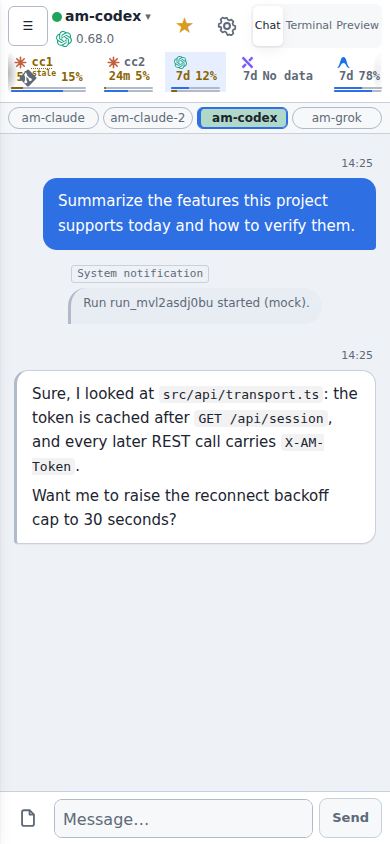
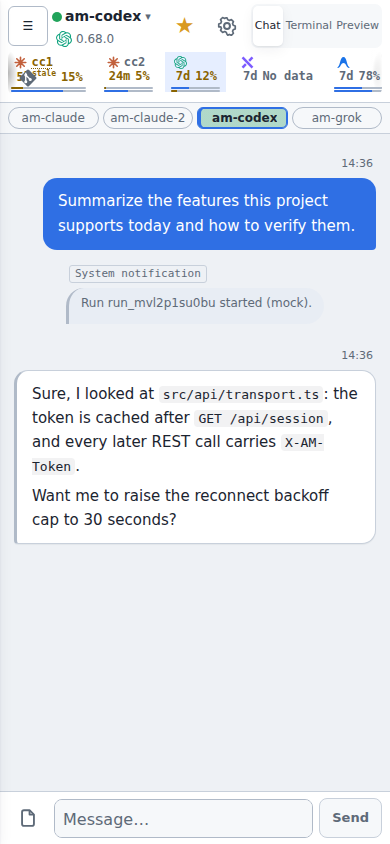
fix(web): 英文畫面不留全形標點，補漏翻的批次重啟原因與 kind 說明（#1932）
英文字典加全形標點守門測試；程式裡自己組字串的分隔符與 Antigravity（agy）／integration： 標籤改走 t()，英文用半形；updateBatch 的略過原因、KindTag 說明原本寫死中文，補上英文。重拍英文 settings-updates 截圖。

Changed region(s): [[0.1538, 0.3081, 0.8, 0.4005], [0.9231, 0.4005, 0.9538, 0.4313], [0.9231, 0.1848, 0.9538, 0.2156]]

diff --git a/web/src/lib/updateBatch.ts b/web/src/lib/updateBatch.ts
@@ -2,6 +2,7 @@ import type { AgentStatus, Bot, Run } from '../api/types'
 import { cmpVersion } from './releaseTriage'
 import { updateRange } from './updateRange'
 import { backgroundLabel } from './backgroundJobs'
+import { t } from './i18n'
 import type { UpstreamItem } from '../store/upstreamUpdate'
 
 /**
@@ -46,8 +47,8 @@ export function isChildBot(bot: Pick<Bot, 'managed_by' | 'parent_bot_id'>): bool
  * 前端的計數要跟 daemon 同一條線，不然框裡寫「重啟 N 顆」，實際動的比它少。
  */
 function neverRestartedReason(bot: Bot, run: Run): string | null {
-  if (isChildBot(bot)) return '子 agent，由父 Bot 重開' // i18n-ignore
-  if (bot.herdr_session === 'default' || run.herdr_session === 'default') return '在你自己的 herdr default session 裡，daemon 不動它' // i18n-ignore
+  if (isChildBot(bot)) return t('子 agent，由父 Bot 重開')
+  if (bot.herdr_session === 'default' || run.herdr_session === 'default') return t('在你自己的 herdr default session 裡，daemon 不動它')
   return null
 }
 
@@ -57,26 +58,26 @@ function neverRestartedReason(bot: Bot, run: Run): string | null {
  */
 export function passiveUpdateHint(bot: Bot, run: Run | null | undefined): string | null {
   if (!run?.update_notice?.trim()) return null
-  if (isChildBot(bot)) return needsManualInstall(bot, run) ? '新版還沒安裝，由父 Bot 安排安裝與重啟' : '新版已安裝，由父 Bot 安排重啟' // i18n-ignore
+  if (isChildBot(bot)) return needsManualInstall(bot, run) ? t('新版還沒安裝，由父 Bot 安排安裝與重啟') : t('新版已安裝，由父 Bot 安排重啟')
   if (needsManualInstall(bot, run)) return null
-  if (neverRestartedReason(bot, run)) return '新版已安裝；這顆在你自己的 herdr default session 裡，daemon 不會幫你重啟' // i18n-ignore
+  if (neverRestartedReason(bot, run)) return t('新版已安裝；這顆在你自己的 herdr default session 裡，daemon 不會幫你重啟')
   return null
 }
 
 /** `null` = 可以動。 */
 function busyReason(bot: Bot, run: Run, hasInFlightTurn: boolean): string | null {
-  if (needsManualInstall(bot, run)) return '新版還沒裝，要先手動安裝才能套用' // i18n-ignore
+  if (needsManualInstall(bot, run)) return t('新版還沒裝，要先手動安裝才能套用')
   return runBusyReason(run, hasInFlightTurn)
 }
 
 /** 不管更新有沒有裝，這顆現在能不能重啟。 */
 function runBusyReason(run: Run, hasInFlightTurn: boolean): string | null {
-  if (run.state !== 'running') return '還在啟動或關閉中' // i18n-ignore
+  if (run.state !== 'running') return t('還在啟動或關閉中')
   const st: AgentStatus = run.agent_status
-  if (st === 'working') return '正在跑' // i18n-ignore
-  if (st === 'blocked') return '卡在提問，等人回答' // i18n-ignore
-  if (st !== 'idle') return '狀態不明' // i18n-ignore
-  if (hasInFlightTurn) return '還有一回合沒收掉' // i18n-ignore
+  if (st === 'working') return t('正在跑')
+  if (st === 'blocked') return t('卡在提問，等人回答')
+  if (st !== 'idle') return t('狀態不明')
+  if (hasInFlightTurn) return t('還有一回合沒收掉')
   // 回合結束了、背景還在跑：重啟一退 CLI，背景 shell／終端跟著沒了（daemon `Skip::BackgroundJobs`，#767）。null＝沒看過，不擋。
   const bg = run.background_jobs ?? 0
   if (bg > 0) return backgroundLabel(bg)
@@ -85,7 +86,7 @@ function runBusyReason(run: Run, hasInFlightTurn: boolean): string | null {
 
 /** 確認框裡「會重啟」那一列的字：背景狀態沒看過的標出來（#767）。 */
 export function readyLabel(b: UpdateBatchCounts['ready'][number]): string {
-  return b.backgroundUnknown ? `${b.name}（背景狀態未知）` : b.name // i18n-ignore
+  return b.backgroundUnknown ? t('{name}（背景狀態未知）', { name: b.name }) : b.name
 }
 
 export function updateBatchCounts(
@@ -194,8 +195,8 @@ function codexUpstreamPlan(
   if (!disk) return null
   // 同 daemon `codex_update::pending_text`：`updateRange` 從這句讀 (from, to]。
   const notice = disk.installedVersion
-    ? `codex 有新版 ${disk.installedVersion} → ${upstream.target}，需安裝後重啟` // i18n-ignore
-    : `codex 有新版 ${upstream.target}，需安裝後重啟` // i18n-ignore
+    ? t('codex 有新版 {from} → {to}，需安裝後重啟', { from: disk.installedVersion, to: upstream.target })
+    : t('codex 有新版 {to}，需安裝後重啟', { to: upstream.target })
   const plan: CodexInstallPlan = { host: disk.host, notice, installCount: 0, ready: [], busy: [] }
   for (const bot of bots) {
     const run = runs[bot.id]

diff --git a/web/src/store/updateCheck.ts b/web/src/store/updateCheck.ts
@@ -57,13 +57,14 @@ export function versionLess(a: string | null, b: string | null): boolean | null 
   return false
 }
 
-const CLI_LABEL: Record<string, string> = { claude: 'Claude CLI', codex: 'Codex CLI', grok: 'Grok CLI', agy: 'Antigravity（agy）CLI' } // i18n-ignore
-// integration 名稱是 daemon 的識別字，不翻；前綴的「integration：」照原樣顯示。
-const INTEGRATION_LABEL: Record<string, string> = {
-  claude: 'integration：claude', // i18n-ignore
-  codex: 'integration：codex', // i18n-ignore
-  'antigravity-cli': 'integration：antigravity-cli', // i18n-ignore
-  grok: 'integration：grok', // i18n-ignore
+/** 顯示名：agy 的全形括號與「integration：」前綴在英文介面要半形，所以走 `t()`；integration 名稱是 daemon 的識別字，不翻。 */
+function cliLabel(kind: string): string {
+  if (kind === 'agy') return t('Antigravity（agy）CLI')
+  return ({ claude: 'Claude CLI', codex: 'Codex CLI', grok: 'Grok CLI' } as Record<string, string>)[kind] ?? kind
+}
+
+function integrationLabel(name: string): string {
+  return t('integration：{name}', { name })
 }
 
 function hostEntry(item: UpstreamItem | undefined, host: string) {
@@ -112,7 +113,7 @@ function herdrRows(host: string, herdr: HerdrVersion | undefined, item: Upstream
 }
 
 function cliRow(host: string, kind: string, tool: ToolStatus | undefined, item: UpstreamItem | undefined, updatable: boolean): CheckRow {
-  const base = { id: `${host}:cli-${kind}`, group: 'cli' as const, label: CLI_LABEL[kind] ?? kind }
+  const base = { id: `${host}:cli-${kind}`, group: 'cli' as const, label: cliLabel(kind) }
   // 工具清單還沒讀到（undefined）是查不到；讀到了、installed 為假才是未安裝。
   if (tool === undefined) return { ...base, current: null, latest: null, status: 'unknown', note: t('這台還沒讀到工具清單'), action: null }
   if (!tool.installed) return { ...base, current: null, latest: item?.latest ?? null, status: 'missing', note: null, action: null }
@@ -162,7 +163,7 @@ function integrationRow(host: string, row: IntegrationRow, tools: ToolMap | unde
   const probe = (tools as Record<string, ToolStatus> | undefined)?.[LOGIN_KIND[row.name] ?? '']
   const loggedIn = probe?.installed === true && probe.logged_in === true
   const v = (n: number | null) => (n === null ? null : `v${n}`)
-  const base = { id: `${host}:integration-${row.name}`, group: 'integration' as const, label: INTEGRATION_LABEL[row.name] ?? `integration：${row.name}` } // i18n-ignore
+  const base = { id: `${host}:integration-${row.name}`, group: 'integration' as const, label: integrationLabel(row.name) }
   switch (row.state) {
     case 'outdated':
       return { ...base, current: v(row.installed_version), latest: v(row.required_version), status: 'update', note: autoInstallFailure(row, t('可按「更新」再試，或重啟 daemon')), action: { kind: 'integration', name: row.name } }

diff --git a/web/src/i18n/en/updates.ts b/web/src/i18n/en/updates.ts
@@ -365,7 +365,26 @@ export default {
   'claude 安裝中 {hosts}…': 'Installing claude: {hosts}…',
   '安裝 claude{target} 到 {n} 台': 'Install claude{target} on {n} hosts',
   '有更新：{items}。點開選要做哪一個': 'Updates available: {items}. Open to choose which one.',
+  // lib/updateBatch.ts（批次重啟的略過原因）
+  '子 agent，由父 Bot 重開': 'Child agent; the parent Bot restarts it',
+  '在你自己的 herdr default session 裡，daemon 不動它': 'Lives in your own herdr default session; the daemon leaves it alone',
+  '新版還沒安裝，由父 Bot 安排安裝與重啟': 'The new version is not installed yet; the parent Bot arranges install and restart',
+  '新版已安裝，由父 Bot 安排重啟': 'The new version is installed; the parent Bot arranges the restart',
+  '新版已安裝；這顆在你自己的 herdr default session 裡，daemon 不會幫你重啟': 'The new version is installed; this one lives in your own herdr default session, so the daemon will not restart it',
+  '新版還沒裝，要先手動安裝才能套用': 'The new version is not installed yet; install it manually first',
+  '還在啟動或關閉中': 'Still starting or stopping',
+  '正在跑': 'Running',
+  '卡在提問，等人回答': 'Blocked on a question; waiting for an answer',
+  '狀態不明': 'Status unknown',
+  '還有一回合沒收掉': 'A turn is still in flight',
+  '{name}（背景狀態未知）': '{name} (background status unknown)',
+  'codex 有新版 {from} → {to}，需安裝後重啟': 'codex {to} is available (from {from}); install it, then restart',
+  'codex 有新版 {to}，需安裝後重啟': 'codex {to} is available; install it, then restart',
   '立即部署': 'Deploy now',
+  'Antigravity（agy）CLI': 'Antigravity (agy) CLI',
+  'integration：{name}': 'integration: {name}',
+  '（{sha}）': ' ({sha})',
+  '：': ': ',
   '立即部署：落後 {n} 個 commit': 'Deploy now: {n} commits behind',
   '{text}。進度看 {log}': '{text}. Progress: {log}',
   '送出中': 'Sending',

diff --git a/web/src/i18n/en/hosts.ts b/web/src/i18n/en/hosts.ts
@@ -345,7 +345,7 @@ export default {
   '最後一次讀取失敗（{error}）——上面顯示的是先前的畫面。': 'The last read failed ({error}); the screen above is from before.',
   '送出失敗（{error}）——這次的輸入沒有送進 pane。': 'Send failed ({error}); this input did not reach the pane.',
   '{host} shell 的終端，鍵盤直通中': 'Terminal of the {host} shell, keyboard passthrough on',
-  '鍵盤直通中：按鍵直接送進這個 pane。⌘C／⌘R／⌘V 仍是瀏覽器的；Delete／Home／End／PgUp herdr 不收。': 'Keyboard passthrough on: keystrokes go straight to this pane. ⌘C／⌘R／⌘V still belong to the browser; herdr does not accept Delete／Home／End／PgUp.',
+  '鍵盤直通中：按鍵直接送進這個 pane。⌘C／⌘R／⌘V 仍是瀏覽器的；Delete／Home／End／PgUp herdr 不收。': 'Keyboard passthrough on: keystrokes go straight to this pane. ⌘C / ⌘R / ⌘V still belong to the browser; herdr does not accept Delete / Home / End / PgUp.',
   '手機沒有實體鍵盤：關掉鍵盤直通改用下方輸入框。': 'Phones have no physical keyboard: turn off keyboard passthrough and use the input box below.',
   '鍵盤直通開著，但焦點不在終端上——點一下上面的畫面才會收你的鍵盤。': 'Keyboard passthrough is on, but focus is not on the terminal. Click the screen above to capture your keyboard.',
   '這顆 pane 開著 port（例如 dev server），只能看不能打字——送一個 Ctrl-C 就是把它關掉。': 'This pane has a port open (for example a dev server), so it is view-only. Sending Ctrl-C closes it.',

diff --git a/web/src/lib/grokUpdate.ts b/web/src/lib/grokUpdate.ts
@@ -23,12 +23,12 @@ export function grokUpdatePlan(item: UpstreamItem | null | undefined): GrokUpdat
 
 /** chip 的 tooltip／aria-label。 */
 export function grokChipLabel(plan: GrokUpdatePlan): string {
-  const hosts = plan.hosts.map((h) => `${h.host}：${h.from ?? t('讀不到版本')}`).join('；') // i18n-ignore
+  const hosts = plan.hosts.map((h) => `${h.host}${t('：')}${h.from ?? t('讀不到版本')}`).join(t('；'))
   return t('grok 有新版 {target}（{hosts}）· 在那台主機執行 `{command}`，已在跑的 bot 重啟後才會換版', { target: plan.target, hosts, command: plan.command })
 }
 
 /** 手機合成選單裡 grok 那一項的文案（只提示，點開看指令）。 */
 export function grokMenuItem(plan: GrokUpdatePlan): string {
-  const hostList = plan.hosts.map((h) => h.host).join('、') // i18n-ignore
+  const hostList = plan.hosts.map((h) => h.host).join(t('、'))
   return t('grok {target}：{hosts} 還沒升（只提示，指令 {command}）', { target: plan.target, hosts: hostList, command: plan.command })
 }

diff --git a/web/src/lib/agyUpdate.ts b/web/src/lib/agyUpdate.ts
@@ -25,12 +25,12 @@ export function agyUpdateTitle(target: string): string {
 
 /** chip 的 tooltip／aria-label。 */
 export function agyChipLabel(plan: AgyUpdatePlan): string {
-  const hosts = plan.hosts.map((h) => `${h.host}：${h.from ?? t('讀不到版本')}`).join('；') // i18n-ignore
+  const hosts = plan.hosts.map((h) => `${h.host}${t('：')}${h.from ?? t('讀不到版本')}`).join(t('；'))
   return t('agy 有新版 {target}（{hosts}）· 點一下更新：從官方下載、驗 sha512 後換掉 ~/.local/bin/agy；跑著的 agy bot 重啟後才換版', { target: plan.target, hosts })
 }
 
 /** 手機合成選單裡 agy 那一項的文案。 */
 export function agyMenuItem(plan: AgyUpdatePlan): string {
-  const hostList = plan.hosts.map((h) => h.host).join('、') // i18n-ignore
+  const hostList = plan.hosts.map((h) => h.host).join(t('、'))
   return t('agy {target}：{hosts} 可更新（點開確認）', { target: plan.target, hosts: hostList })
 }

diff --git a/web/src/components/KindTag.tsx b/web/src/components/KindTag.tsx
@@ -74,12 +74,12 @@ export function KindTag({
   /** 正在跑的 codex 是 fast：logo 上疊一個閃電。 */
   fast?: boolean
 }) {
-  useT()
+  const t = useT()
   const mode = useStore((s) => s.kindDisplay)
   return (
     <span
       className={`kind-tag ${kind}${mode === 'icon' ? ' icon' : ''}${fast ? ' fast' : ''}${className ? ` ${className}` : ''}`}
-      title={fast ? t('{title}\nfast 開著（priority tier）：回得快，額度也燒得快', { title: title ?? KIND_DESC[kind] }) : (title ?? KIND_DESC[kind])}
+      title={fast ? t('{title}\nfast 開著（priority tier）：回得快，額度也燒得快', { title: title ?? t.tr(KIND_DESC[kind]) }) : (title ?? t.tr(KIND_DESC[kind]))}
       aria-label={fast ? t('{kind}（fast）', { kind: KIND_LABEL[kind] }) : KIND_LABEL[kind]}
       role="img"
     >

diff --git a/web/src/components/HostsPanel.tsx b/web/src/components/HostsPanel.tsx
@@ -392,7 +392,7 @@ function NewHostForm({ onResult }: { onResult: (r: HostResult | null) => void })
         <span className="chev">{advanced ? '▼' : '▶'}</span> {t('進階（都有預設值）')}
       </button>
       {/* 收起時進階欄位不掛載，但它的錯誤仍會鎖住送出：原因要留在這一列上，不然只剩一顆灰鈕。 */}
-      {!advanced && (portHint || sessionHint) ? <span className="hint">{t('進階欄位：{hints}', { hints: [portHint, sessionHint].filter(Boolean).join('；') /* i18n-ignore：分隔符 */ })}</span> : null}
+      {!advanced && (portHint || sessionHint) ? <span className="hint">{t('進階欄位：{hints}', { hints: [portHint, sessionHint].filter(Boolean).join(t('；')) })}</span> : null}
       {advanced ? (
         <>
             <label className="field">

diff --git a/web/src/api/integrationUpdates.ts b/web/src/api/integrationUpdates.ts
@@ -98,7 +98,7 @@ export function integrationErrText(e: unknown, host: string): string {
     if (e.status === 404 && !e.body.reason) return t('這顆 daemon 還沒有 integration 更新（HTTP 404），或不認得主機 {host}', { host })
     if (e.status === 405) return t('這顆 daemon 還沒有 integration 更新（HTTP 405），二進位比前端舊；要重建並重啟 daemon')
     if (e.status === 403) return t('integration 更新只給使用者在設定頁按')
-    return `HTTP ${e.status}${typeof e.body.error === 'string' ? `：${e.body.error}` : ''}` // i18n-ignore
+    return `HTTP ${e.status}${typeof e.body.error === 'string' ? `${t('：')}${e.body.error}` : ''}`
   }
   return e instanceof Error ? e.message : String(e)
 }

diff --git a/web/src/lib/deployNow.ts b/web/src/lib/deployNow.ts
@@ -47,7 +47,7 @@ export function deployVisible(s: DeployStatus | null): boolean {
 export function runningText(r: DeployRunning): string {
   switch (r.kind) {
     case 'requested':
-      return t('已按下立即部署{sha}，等自動部署接手、建置或等安全窗口', { sha: r.sha ? `（${r.sha.slice(0, 8)}）` : '' }) // i18n-ignore
+      return t('已按下立即部署{sha}，等自動部署接手、建置或等安全窗口', { sha: r.sha ? t('（{sha}）', { sha: r.sha.slice(0, 8) }) : '' })
     case 'lease':
       return t('{owner}正握著 {resource} 窗口（重建或換版進行中）', { owner: r.owner || t('有人'), resource: r.resource ?? '' })
     default:

diff --git a/web/src/lib/i18n/i18nDict.test.ts b/web/src/lib/i18n/i18nDict.test.ts
@@ -60,6 +60,14 @@ test('英文的插值名稱和 key 一致，複數兩邊都有', () => {
   assert.deepEqual(bad, [])
 })
 
+test('英文不含全形標點（括號、冒號、逗號、句號、斜線都用半形）', () => {
+  const fullwidth = /[\u3001-\u3003\u3008-\u3011\u3014-\u301f\uff01-\uff5e]/u
+  const bad = Object.entries(EN_PARTS).flatMap(([area, dict]) =>
+    Object.entries(dict).flatMap(([key, entry]) => entryStrings(entry).filter((s) => fullwidth.test(s)).map((s) => `${area}: ${key} → ${s}`)),
+  )
+  assert.deepEqual(bad, [])
+})
+
 test('不同區塊對同一句寫了不同的英文（相同沒關係）', () => {
   assert.deepEqual(EN_CONFLICTS, [])
 })

diff --git a/web/src/components/ShareProfileField.tsx b/web/src/components/ShareProfileField.tsx
@@ -116,7 +116,7 @@ export function ShareProfileField({
           )}
           {folder.mode === 'new' && !trusted ? (
             <div className="share-folder-row">
-              <span className="share-folder-prefix">{remote ? `${remote}：~/shared-bots/` : '~/shared-bots/'}</span> {/* i18n-ignore */}
+              <span className="share-folder-prefix">{remote ? `${remote}${t('：')}~/shared-bots/` : '~/shared-bots/'}</span>
               <input
                 type="text"
                 value={folder.name}
